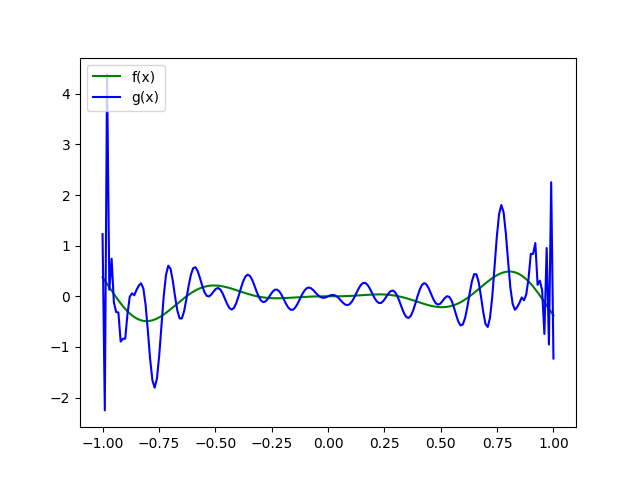
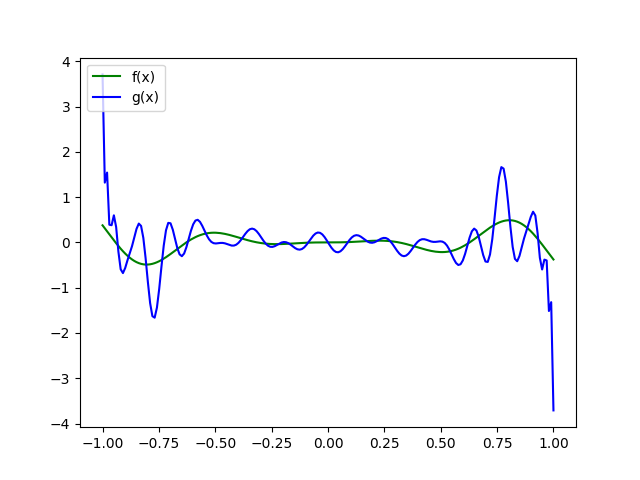
update

diff --git a/Trabalho 03/legendre04 (bidin version).py b/Trabalho 03/legendre04 (bidin version).py
@@ -1,5 +1,6 @@
 import math
 import numpy as np
+import matplotlib.pyplot as plt
 
 '''
 Seja Pn(x) o polinômio de Legendre de grau n. Encontre os coeficientes da combinação linear
@@ -322,3 +323,67 @@ if __name__ == '__main__':
     erro = trapz(func_erro, a, b, subintervalo_para_erro)
 
     print(f'{erro}')
+
+    t = np.linspace(a, b, 200)
+    ft = [f(ti) for ti in t]
+    gt = [g(ti) for ti in t]
+
+    plt.plot(t, ft, color = "green", label = "f(x)")
+    plt.plot(t, gt, color = "blue", label = "g(x)")
+    plt.legend(loc="upper left")
+    # plt.savefig("legendre04 (bidin version).png")
+    plt.close()
+
+    """
+    0.0,
+0.14156254791776582,
+0.0,
+0.10288296495171939,
+0.0,
+-0.4524777113231257,
+0.0,
+-0.4631183608511765,
+0.0,
+0.23609126851731277,
+0.0,
+0.22261404570268162,
+0.0,
+-0.2411652161780042,
+0.0,
+-0.30140344294173965,
+0.0,
+0.70297666238467,
+0.0,
+0.849926157524449,
+0.0,
+-0.21667124769317017,
+0.0,
+-0.48927015696151593,
+0.0,
+-0.8511390038953847,
+0.0,
+0.5711256445373671,
+0.0,
+1.1470413225568898,
+0.0,
+-0.1988073656016326,
+0.0,
+-1.2592385333116065,
+0.0,
+-0.24524740446435508,
+0.0,
+0.18153658880257248,
+0.0,
+-0.29251615184313845,
+0.0,
+-1.4192498486305962,
+0.0,
+-0.083875782724729,
+0.0,
+1.5340231592923046,
+0.0,
+-0.09926269119751627,
+0.0,
+0.2862354924069982,
+0.0,
+    """

diff --git a/Trabalho 03/legendre04.py b/Trabalho 03/legendre04.py
@@ -132,10 +132,13 @@ def optimized_legendre(n):
     Obs.: x deve ser um elemento da classe symbol da biblioteca sympy.
     """
     x = symbols('x')
-    P = [1, x]
+    P = [float(1), x]
     P_func_list = [lambda x: 1, lambda x: x]
     for i in range(2, n+1):
-        p_i = ((2 * i - 1) * x * P[1] - (i - 1) * P[0]) / i
+        """
+        Nesta parte (de geração do polinômio p_i) estava ocorrendo problema de precisão caso não se converte-se i para float:
+        """
+        p_i = ((2 * float(i) - 1) * x * P[1] - (float(i) - 1) * P[0]) / float(i)
         p_i = simplify(p_i)
         P.pop(0)
         # print(p_i, "\n\n")
